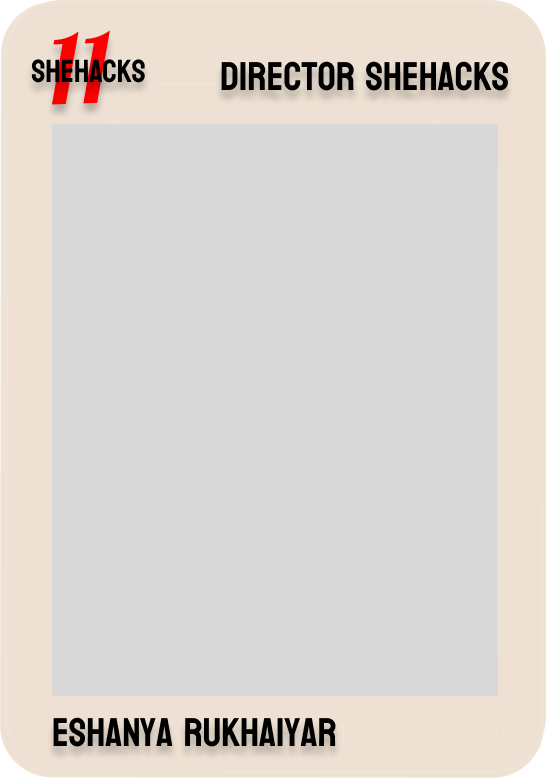
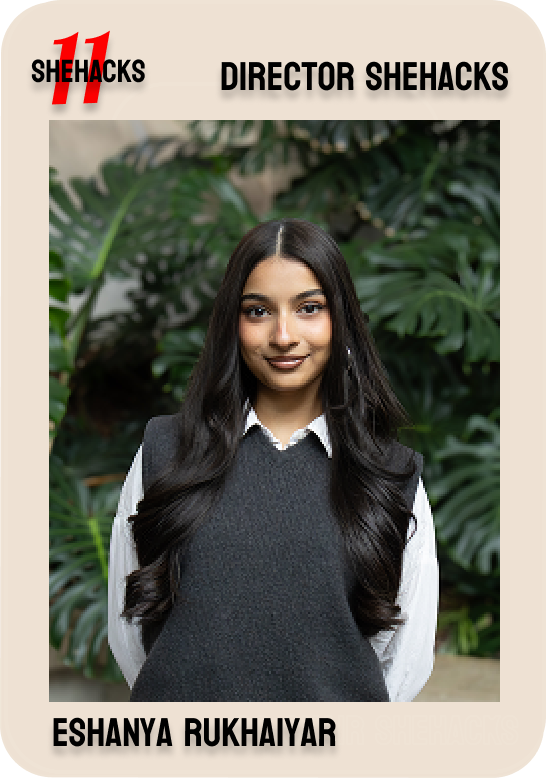
final edits

diff --git a/shehacks-web/src/app/components/teamfolders.js b/shehacks-web/src/app/components/teamfolders.js
@@ -2,13 +2,13 @@
 import { useState } from "react";
 
 const PEOPLE = [
-  { name: "Raisa Kayastha",    role: "Co-Chair SheHacks", photo: "/images/team/raisa.jpeg",    linkedin: "https://www.linkedin.com/in/raisa-kayastha77/",        tabX: 26  },
-  { name: "Gurnoor Jande",     role: "Co-Chair SheHacks", photo: "/images/team/gurnoor.jpeg",  linkedin: "https://www.linkedin.com/in/gurnoor-jande-39a9321b1/", tabX: 213 },
-  { name: "Ella Sajor",        role: "Co-Chair SheHacks", photo: "/images/team/ella.jpeg",     linkedin: "https://www.linkedin.com/in/ella-sajor/",             tabX: 365 },
-  { name: "Eshanya Rukhaiyar", role: "Director SheHacks", photo: "/images/team/eshanya.jpeg",  linkedin: "https://www.linkedin.com/in/eshanya-rukhaiyar/",      tabX: 537 },
-  { name: "Danica Keeler",     role: "Director SheHacks", photo: "/images/team/danica.jpeg",   linkedin: "https://www.linkedin.com/in/danicakeeler",            tabX: 702 },
-  { name: "Satwika Pujari",    role: "Director SheHacks", photo: "/images/team/satwika.jpeg",  linkedin: "https://www.linkedin.com/in/satwikapujari/",          tabX: 26  },
-  { name: "Chloe Chong",       role: "Director SheHacks", photo: "/images/team/chloe.jpeg",    linkedin: "https://www.linkedin.com/in/cchloechong",             tabX: 229 },
+  { name: "Raisa Kayastha",    role: "Co-Chair SheHacks", photo: "/images/hacker-olympics/teamphotos/raisa pic.png",    linkedin: "https://www.linkedin.com/in/raisa-kayastha77/",        tabX: 26  },
+  { name: "Gurnoor Jande",     role: "Co-Chair SheHacks", photo: "/images/hacker-olympics/teamphotos/gurnoor pic.png",  linkedin: "https://www.linkedin.com/in/gurnoor-jande-39a9321b1/", tabX: 213 },
+  { name: "Ella Sajor",        role: "Co-Chair SheHacks", photo: "/images/hacker-olympics/teamphotos/ella pic.png",     linkedin: "https://www.linkedin.com/in/ella-sajor/",             tabX: 365 },
+  { name: "Eshanya Rukhaiyar", role: "Director SheHacks", photo: "/images/hacker-olympics/teamphotos/image 323.png",  linkedin: "https://www.linkedin.com/in/eshanya-rukhaiyar/",      tabX: 537 },
+  { name: "Danica Keeler",     role: "Director SheHacks", photo: "/images/hacker-olympics/teamphotos/headshot1 1.png",   linkedin: "https://www.linkedin.com/in/danicakeeler",            tabX: 702 },
+  { name: "Satwika Pujari",    role: "Director SheHacks", photo: "/images/hacker-olympics/teamphotos/Satwika pic.png",  linkedin: "https://www.linkedin.com/in/satwikapujari/",          tabX: 26  },
+  { name: "Chloe Chong",       role: "Director SheHacks", photo: "/images/hacker-olympics/teamphotos/image 322.png",    linkedin: "https://www.linkedin.com/in/cchloechong",             tabX: 229 },
 ];
 
 const STEP = 166;

diff --git a/shehacks-web/src/app/olympics/ho-about.js b/shehacks-web/src/app/olympics/ho-about.js
@@ -1,3 +1,5 @@
+import TeamCards from '../components/teamcards.js'
+
 const CANVAS_WIDTH = 1440;
 function TeamCard({ team, role, name, top, left, right }) {
   return (
@@ -99,7 +101,7 @@ export default function HOAbout() {
         style={{ width: 1451, height: 238, position: 'absolute', top: 1068, left: 0 }}
       />
 
-      <TeamCard
+      {/* <TeamCard
         team="/images/hacker-olympics/teamphotos/ella pic.png"
         role="Co-Chair Shehacks"
         name="Ella Sajor"
@@ -147,8 +149,9 @@ export default function HOAbout() {
         name="Chloe Chong"
         top={1790}
         right={75}
-      />
-
+      /> */}
+      <section style={{position: 'absolute',
+          top: 1300,        left: 200,}}><TeamCards/></section>
       <h1 
         className="font-koulen"
         style={{

diff --git a/shehacks-web/src/app/page.js b/shehacks-web/src/app/page.js
@@ -165,7 +165,6 @@ export default function Home() {
                         className="scroll-mt-28 m-0 p-0"
                     >
                         <TeamFolders />
-                        <TeamCards />
                     </section>
 
                     {/*connect stuff*/}
